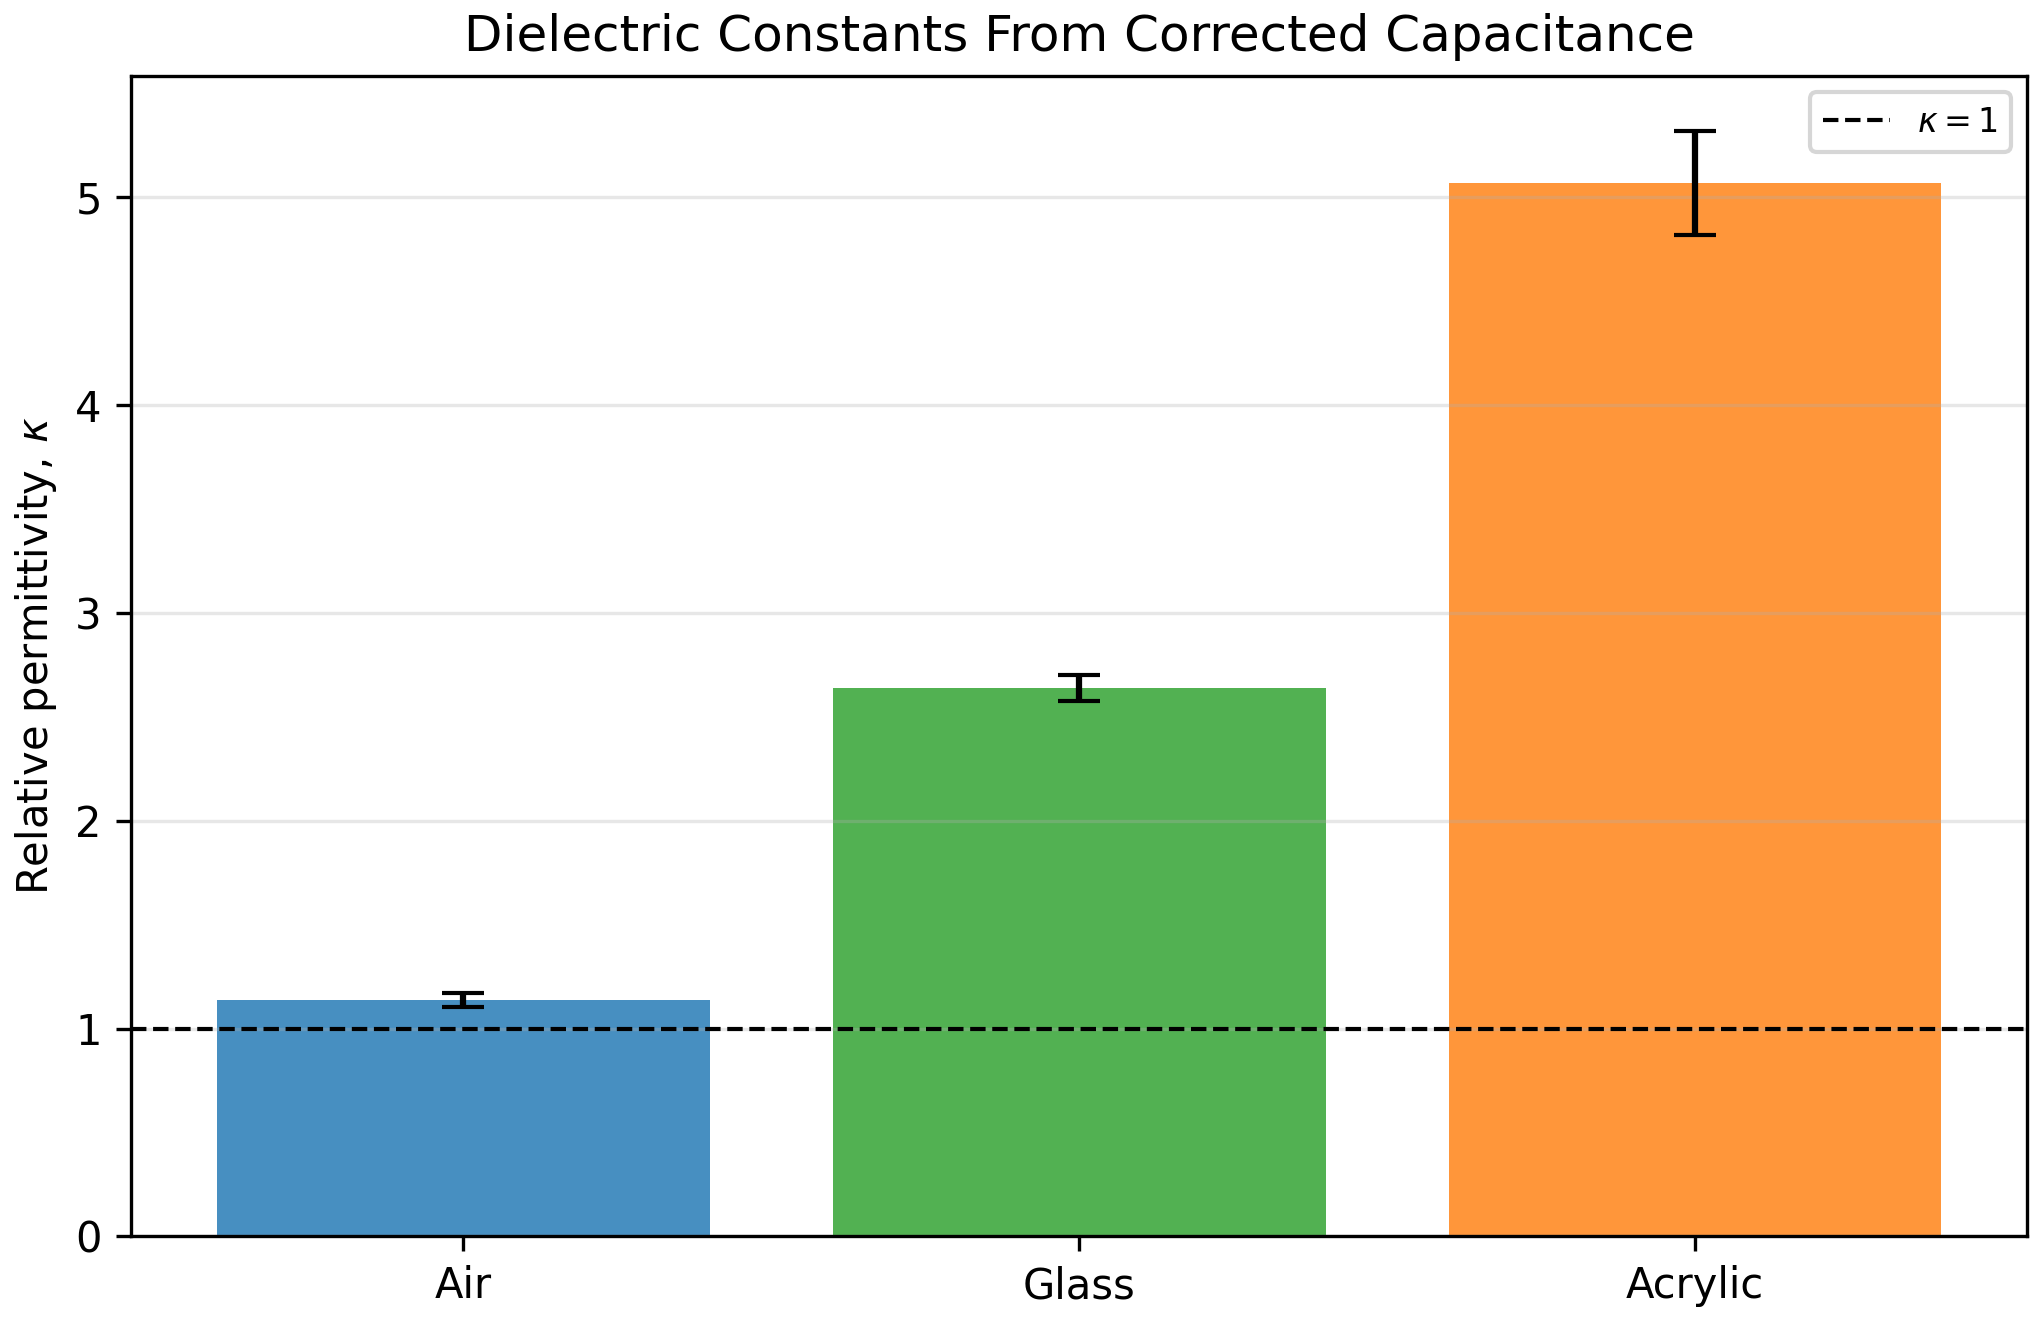
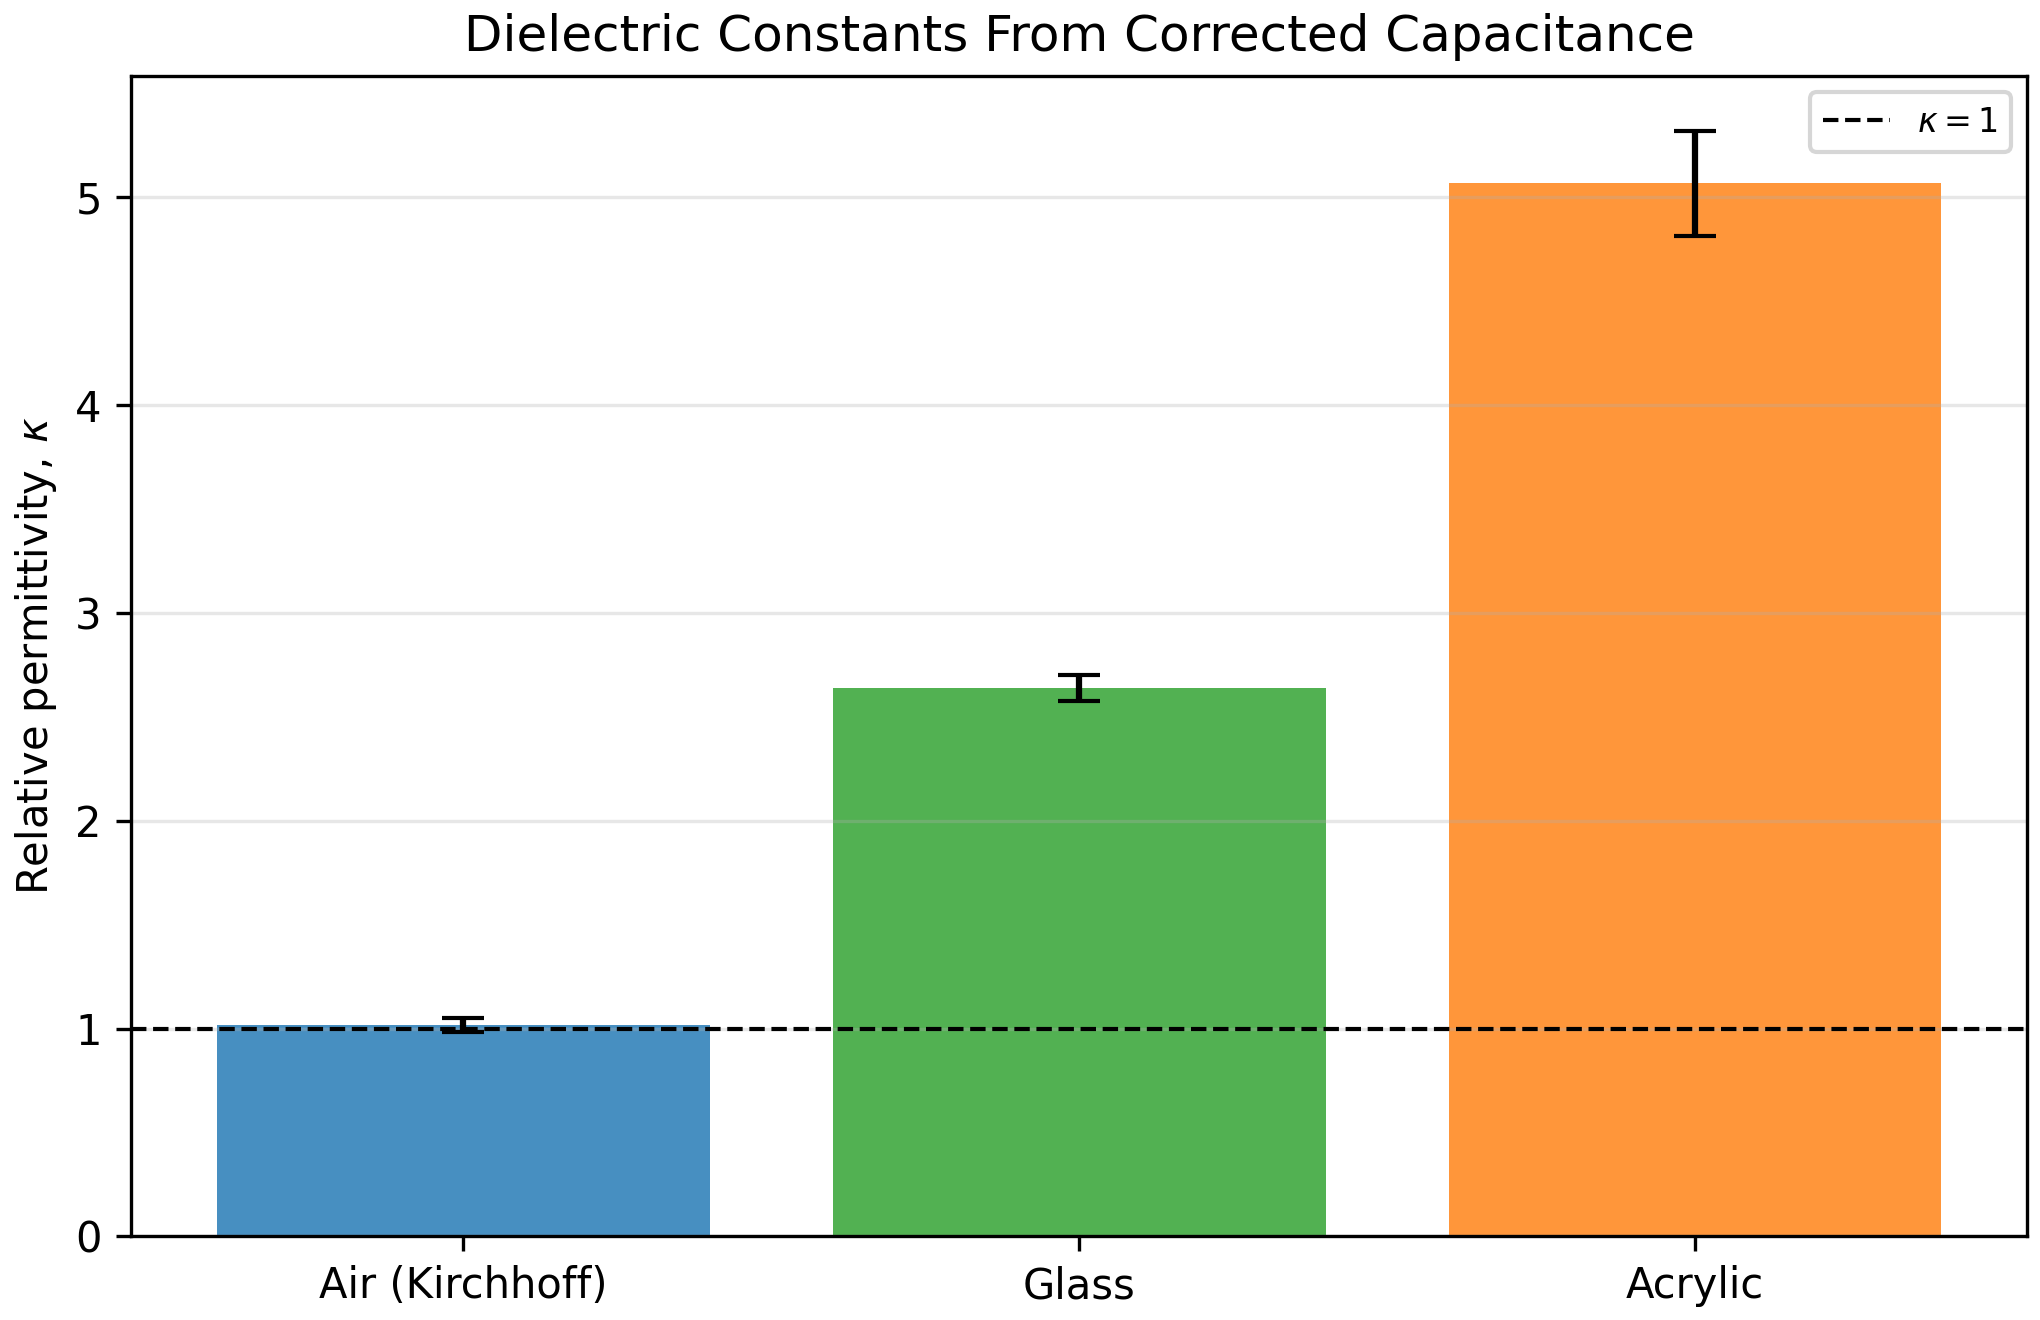
incorporated kirchoff correction

Changed region(s): [[0.0926, 0.7455, 0.3706, 0.7765], [0.1544, 0.9629, 0.3088, 0.9939]]

diff --git a/analyze_capstone.py b/analyze_capstone.py
@@ -517,10 +517,22 @@ def main() -> None:
     CALIPER_M = 2e-5  # 0.02 mm caliper uncertainty
 
     air_radius_m = 0.10
-    air_area_m2 = math.pi * air_radius_m**2
-    air_area_err_m2 = 2.0 * math.pi * air_radius_m * CALIPER_M  # dA/dr = 2πr
     air_thickness_m = 0.0025
     air_thickness_err_m = CALIPER_M
+
+    # Nominal (uncorrected) circular plate area
+    air_area_m2 = math.pi * air_radius_m**2
+    air_area_err_m2 = 2.0 * math.pi * air_radius_m * CALIPER_M  # dA/dr = 2*pi*r
+
+    # Kirchhoff fringe correction: r_eff = r + (d/pi)*(ln(2*pi*r/d) + 1 + ln(2))
+    # Valid for d/r << 1 (here d/r = 0.025)
+    air_radius_eff_m = air_radius_m + (air_thickness_m / math.pi) * (
+        math.log(2.0 * math.pi * air_radius_m / air_thickness_m) + 1.0 + math.log(2.0)
+    )
+    air_area_eff_m2 = math.pi * air_radius_eff_m**2
+    # dr_eff/dr = 1 + (d/pi)/r; propagate through dA_eff = 2*pi*r_eff * (dr_eff/dr) * sigma_r
+    d_reff_dr = 1.0 + (air_thickness_m / math.pi) / air_radius_m
+    air_area_eff_err_m2 = 2.0 * math.pi * air_radius_eff_m * d_reff_dr * CALIPER_M
 
     glass_area_m2 = 0.34 * 0.48
     glass_area_err_m2 = glass_area_m2 * math.sqrt((CALIPER_M / 0.34) ** 2 + (CALIPER_M / 0.48) ** 2)
@@ -533,7 +545,11 @@ def main() -> None:
     acrylic_thickness_err_m = CALIPER_M
 
     dielectric_results = {
-        "Air": dielectric_permittivity(
+        "Air (Kirchhoff)": dielectric_permittivity(
+            air_mean, air_mean_err, air_area_eff_m2, air_thickness_m,
+            area_err_m2=air_area_eff_err_m2, thickness_err_m=air_thickness_err_m,
+        ),
+        "Air (nominal)": dielectric_permittivity(
             air_mean, air_mean_err, air_area_m2, air_thickness_m,
             area_err_m2=air_area_err_m2, thickness_err_m=air_thickness_err_m,
         ),
@@ -553,13 +569,22 @@ def main() -> None:
     air_frequency_dielectric = dielectric_permittivity(
         air_frequency[0],
         air_frequency[1],
+        air_area_eff_m2,
+        air_thickness_m,
+        area_err_m2=air_area_eff_err_m2,
+        thickness_err_m=air_thickness_err_m,
+    )
+    air_frequency_dielectric_nominal = dielectric_permittivity(
+        air_frequency[0],
+        air_frequency[1],
         air_area_m2,
         air_thickness_m,
         area_err_m2=air_area_err_m2,
         thickness_err_m=air_thickness_err_m,
     )
     plot_permittivity_summary(
-        {label: (values[2], values[3]) for label, values in dielectric_results.items()}
+        {label: (values[2], values[3]) for label, values in dielectric_results.items()
+         if label != "Air (nominal)"}
     )
 
     print("FIT RESULTS")
@@ -600,9 +625,15 @@ def main() -> None:
 
     print("\nPERMITTIVITY RESULTS")
     print(
-        "Air geometry: "
+        "Air geometry (nominal): "
         f"A={format_pm(air_area_m2, air_area_err_m2, digits=6)} m^2, "
         f"d={format_pm(air_thickness_m, air_thickness_err_m, digits=5)} m"
+    )
+    print(
+        "Air geometry (Kirchhoff): "
+        f"r_eff={air_radius_eff_m*100:.4f} cm, "
+        f"A_eff={format_pm(air_area_eff_m2, air_area_eff_err_m2, digits=6)} m^2 "
+        f"(+{(air_area_eff_m2 - air_area_m2) / air_area_m2 * 100:.2f}%)"
     )
     print(
         "Glass geometry: "
@@ -621,9 +652,14 @@ def main() -> None:
             f"kappa={format_pm(kappa, kappa_err, digits=2)}"
         )
     print(
-        "Air from frequency response: "
+        "Air freq response (Kirchhoff): "
         f"epsilon={format_pm(air_frequency_dielectric[0], air_frequency_dielectric[1], digits=14)} F/m, "
         f"kappa={format_pm(air_frequency_dielectric[2], air_frequency_dielectric[3], digits=2)}"
+    )
+    print(
+        "Air freq response (nominal): "
+        f"epsilon={format_pm(air_frequency_dielectric_nominal[0], air_frequency_dielectric_nominal[1], digits=14)} F/m, "
+        f"kappa={format_pm(air_frequency_dielectric_nominal[2], air_frequency_dielectric_nominal[3], digits=2)}"
     )
 
 
